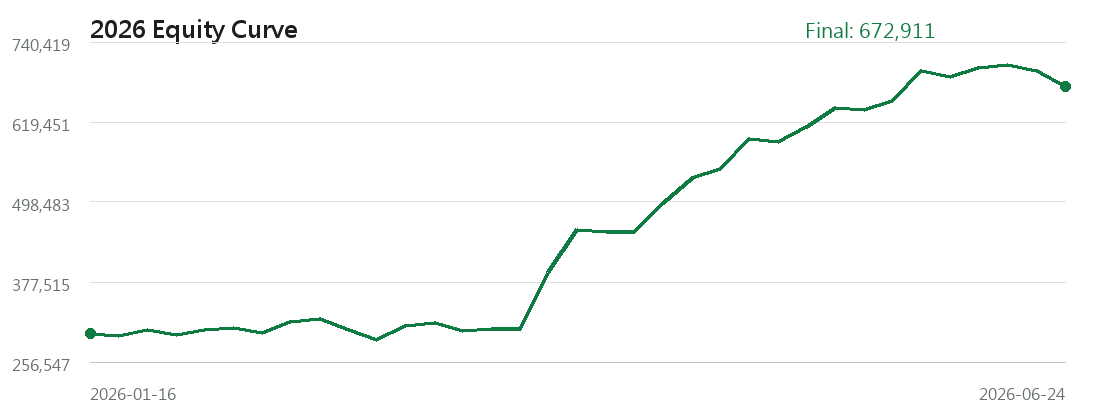
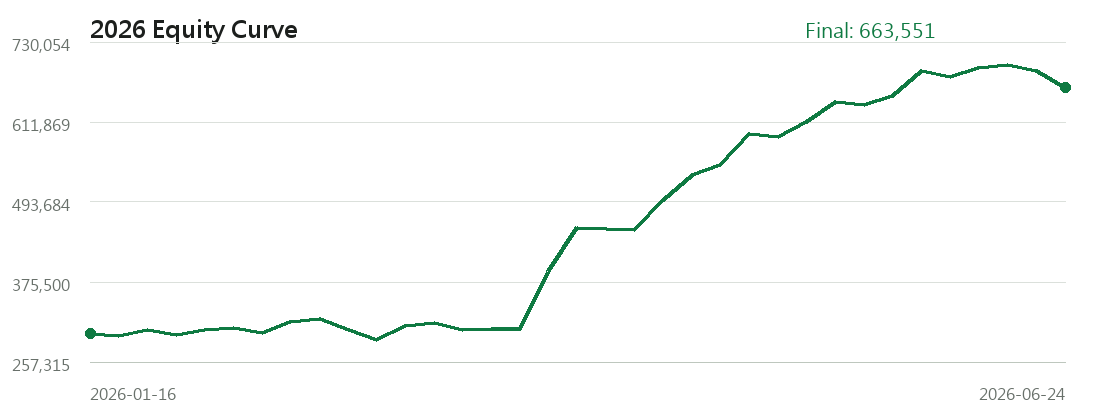
Update dashboard data

diff --git a/data.js b/data.js
@@ -1,5 +1,5 @@
 window.PUBLIC_FOLLOW_DATA = {
-  "generated_at": "2026-06-25T11:12:57.463109+08:00",
+  "generated_at": "2026-06-25T17:48:17.001264+08:00",
   "public_note": "Static follow dashboard only. Backend code, database, cache, and parameter search files are local-only.",
   "assumptions": {
     "initial_capital": 300000.0,
@@ -8,25 +8,25 @@ window.PUBLIC_FOLLOW_DATA = {
     "position_sizing": "Capital is split across up to 5 positions with integer-share sizing."
   },
   "data_status": {
-    "signal_date": "2026-06-24",
-    "latest_chip_date": "2026-06-24",
+    "signal_date": "2026-06-25",
+    "latest_chip_date": "2026-06-25",
     "latest_price_date": "2026-06-25",
     "candidate_count": 1,
     "warning": null
   },
   "metrics": {
     "initial_capital": 300000.0,
-    "final_value": 672911.1000000001,
-    "cash": 30356.100000000035,
-    "total_return_pct": 124.30370000000002,
-    "annualized_return_pct": 539.6330165339144,
+    "final_value": 663551.1000000001,
+    "cash": 25161.100000000035,
+    "total_return_pct": 121.18370000000004,
+    "annualized_return_pct": 519.3789717366984,
     "start_date": "2026-01-16",
     "end_date": "2026-06-24",
     "closed_trade_count": 26,
     "entry_count": 31,
     "open_position_count": 5,
     "closed_trade_win_rate_pct": 50.0,
-    "average_closed_trade_return_pct": 18.566240609119763,
+    "average_closed_trade_return_pct": 18.266022608496904,
     "max_drawdown_pct": -10.036430098584692
   },
   "equity_curve": [
@@ -201,43 +201,43 @@ window.PUBLIC_FOLLOW_DATA = {
     {
       "date": "2026-06-12",
       "equity": 651695.9,
-      "cash": 76.70000000001164,
+      "cash": 356.70000000001164,
       "position_count": 5
     },
     {
       "date": "2026-06-16",
-      "equity": 697653.1000000001,
-      "cash": 38455.100000000035,
+      "equity": 688313.1000000001,
+      "cash": 33041.100000000035,
       "position_count": 5
     },
     {
       "date": "2026-06-17",
-      "equity": 688626.1000000001,
-      "cash": 38455.100000000035,
+      "equity": 679071.1000000001,
+      "cash": 33041.100000000035,
       "position_count": 5
     },
     {
       "date": "2026-06-18",
-      "equity": 702326.1000000001,
-      "cash": 38455.100000000035,
+      "equity": 692785.1000000001,
+      "cash": 33041.100000000035,
       "position_count": 5
     },
     {
       "date": "2026-06-22",
-      "equity": 707048.1000000001,
-      "cash": 38455.100000000035,
+      "equity": 697451.1000000001,
+      "cash": 33041.100000000035,
       "position_count": 5
     },
     {
       "date": "2026-06-23",
-      "equity": 697816.1000000001,
-      "cash": 38455.100000000035,
+      "equity": 688253.1000000001,
+      "cash": 33041.100000000035,
       "position_count": 5
     },
     {
       "date": "2026-06-24",
-      "equity": 672911.1000000001,
-      "cash": 30356.100000000035,
+      "equity": 663551.1000000001,
+      "cash": 25161.100000000035,
       "position_count": 5
     }
   ],
@@ -245,48 +245,48 @@ window.PUBLIC_FOLLOW_DATA = {
     {
       "stock_id": "6683",
       "company_name": "雍智科技",
-      "quantity": 85,
+      "quantity": 84,
       "entry_date": "2026-06-16",
       "entry_price": 1635.0,
       "current_price_date": "2026-06-24",
       "current_price": 1940.0,
-      "market_value": 164900.0,
+      "market_value": 162960.0,
       "unrealized_return_pct": 18.654434250764517,
       "holding_days": 8
     },
     {
       "stock_id": "4958",
       "company_name": "臻鼎-KY",
-      "quantity": 234,
+      "quantity": 230,
       "entry_date": "2026-06-16",
       "entry_price": 596.0,
       "current_price_date": "2026-06-24",
       "current_price": 587.0,
-      "market_value": 137358.0,
+      "market_value": 135010.0,
       "unrealized_return_pct": -1.5100671140939603,
       "holding_days": 8
     },
     {
       "stock_id": "6919",
       "company_name": "康霈*",
-      "quantity": 1257,
+      "quantity": 1240,
       "entry_date": "2026-06-24",
       "entry_price": 107.0,
       "current_price_date": "2026-06-24",
       "current_price": 104.0,
-      "market_value": 130728.0,
+      "market_value": 128960.0,
       "unrealized_return_pct": -2.8037383177570097,
       "holding_days": 0
     },
     {
       "stock_id": "6173",
       "company_name": "信昌電",
-      "quantity": 394,
+      "quantity": 400,
       "entry_date": "2026-06-16",
       "entry_price": 309.5,
       "current_price_date": "2026-06-24",
       "current_price": 305.0,
-      "market_value": 120170.0,
+      "market_value": 122000.0,
       "unrealized_return_pct": -1.4539579967689842,
       "holding_days": 8
     },
@@ -306,18 +306,16 @@ window.PUBLIC_FOLLOW_DATA = {
   "today_candidates": [
     {
       "rank": 1,
-      "signal_date": "2026-06-24",
-      "stock_id": "6548",
-      "company_name": "長科*",
+      "signal_date": "2026-06-25",
+      "stock_id": "2481",
+      "company_name": "強茂",
       "action": "SELL_WEAKEST_BUY_CANDIDATE",
-      "entry_date": "2026-06-25",
-      "entry_open": 93.69999694824219,
-      "reference_price": 93.69999694824219,
-      "target_amount": 134582.22000000003,
-      "suggested_quantity": 1436,
+      "reference_price": 199.0,
+      "target_amount": 132710.22000000003,
+      "suggested_quantity": 666,
       "sell_stock_id": "6919",
       "sell_company_name": "康霈*",
-      "sell_quantity": 1257,
+      "sell_quantity": 1240,
       "action_text": "換股買進"
     }
   ],
@@ -327,24 +325,24 @@ window.PUBLIC_FOLLOW_DATA = {
       "company_name": "瑞鼎",
       "entry_date": "2026-06-24",
       "entry_price": 280.0,
-      "quantity": 480,
-      "cost": 134400.0
+      "quantity": 473,
+      "cost": 132440.0
     },
     {
       "stock_id": "8114",
       "company_name": "振樺電",
       "entry_date": "2026-06-24",
       "entry_price": 207.5,
-      "quantity": 648,
-      "cost": 134460.0
+      "quantity": 639,
+      "cost": 132592.5
     },
     {
       "stock_id": "6919",
       "company_name": "康霈*",
       "entry_date": "2026-06-24",
       "entry_price": 107.0,
-      "quantity": 1257,
-      "cost": 134499.0
+      "quantity": 1240,
+      "cost": 132680.0
     },
     {
       "stock_id": "6515",
@@ -359,40 +357,40 @@ window.PUBLIC_FOLLOW_DATA = {
       "company_name": "禾伸堂",
       "entry_date": "2026-06-16",
       "entry_price": 882.0,
-      "quantity": 158,
-      "cost": 139356.0
+      "quantity": 156,
+      "cost": 137592.0
     },
     {
       "stock_id": "6173",
       "company_name": "信昌電",
       "entry_date": "2026-06-16",
       "entry_price": 309.5,
-      "quantity": 394,
-      "cost": 121943.0
+      "quantity": 400,
+      "cost": 123800.0
     },
     {
       "stock_id": "4958",
       "company_name": "臻鼎-KY",
       "entry_date": "2026-06-16",
       "entry_price": 596.0,
-      "quantity": 234,
-      "cost": 139464.0
+      "quantity": 230,
+      "cost": 137080.0
     },
     {
       "stock_id": "6683",
       "company_name": "雍智科技",
       "entry_date": "2026-06-16",
       "entry_price": 1635.0,
-      "quantity": 85,
-      "cost": 138975.0
+      "quantity": 84,
+      "cost": 137340.0
     },
     {
-      "stock_id": "1560",
-      "company_name": "中砂",
+      "stock_id": "2472",
+      "company_name": "立隆電",
       "entry_date": "2026-06-12",
-      "entry_price": 650.0,
-      "quantity": 184,
-      "cost": 119600.0
+      "entry_price": 380.0,
+      "quantity": 314,
+      "cost": 119320.0
     },
     {
       "stock_id": "3167",
@@ -425,7 +423,7 @@ window.PUBLIC_FOLLOW_DATA = {
       "company_name": "禾伸堂",
       "entry_date": "2026-06-16",
       "entry_price": 882.0,
-      "quantity": 158,
+      "quantity": 156,
       "exit_date": "2026-06-24",
       "exit_price": 800.0,
       "exit_reason": "移動停損",
@@ -437,7 +435,7 @@ window.PUBLIC_FOLLOW_DATA = {
       "company_name": "瑞鼎",
       "entry_date": "2026-06-24",
       "entry_price": 280.0,
-      "quantity": 480,
+      "quantity": 473,
       "exit_date": "2026-06-24",
       "exit_price": 280.0,
       "exit_reason": "換強股",
@@ -449,7 +447,7 @@ window.PUBLIC_FOLLOW_DATA = {
       "company_name": "振樺電",
       "entry_date": "2026-06-24",
       "entry_price": 207.5,
-      "quantity": 648,
+      "quantity": 639,
       "exit_date": "2026-06-24",
       "exit_price": 207.5,
       "exit_reason": "換強股",
@@ -505,15 +503,15 @@ window.PUBLIC_FOLLOW_DATA = {
       "holding_days": 14
     },
     {
-      "stock_id": "1560",
-      "company_name": "中砂",
+      "stock_id": "2472",
+      "company_name": "立隆電",
       "entry_date": "2026-06-12",
-      "entry_price": 650.0,
-      "quantity": 184,
+      "entry_price": 380.0,
+      "quantity": 314,
       "exit_date": "2026-06-16",
-      "exit_price": 711.0,
+      "exit_price": 386.0,
       "exit_reason": "換強股",
-      "return_pct": 9.38461538461539,
+      "return_pct": 1.5789473684210575,
       "holding_days": 4
     },
     {